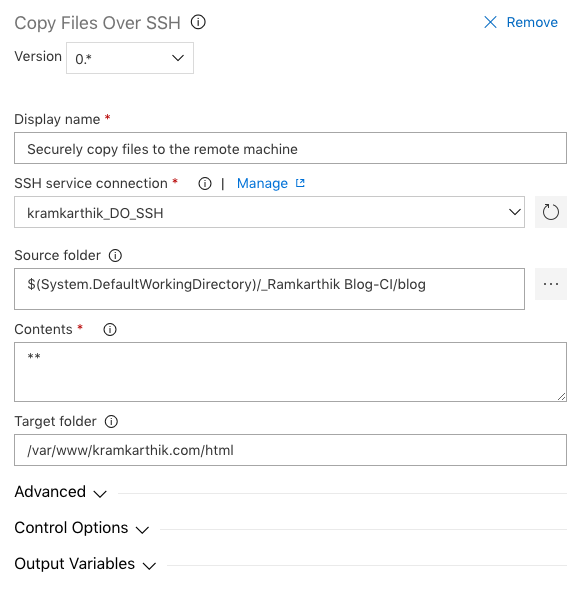
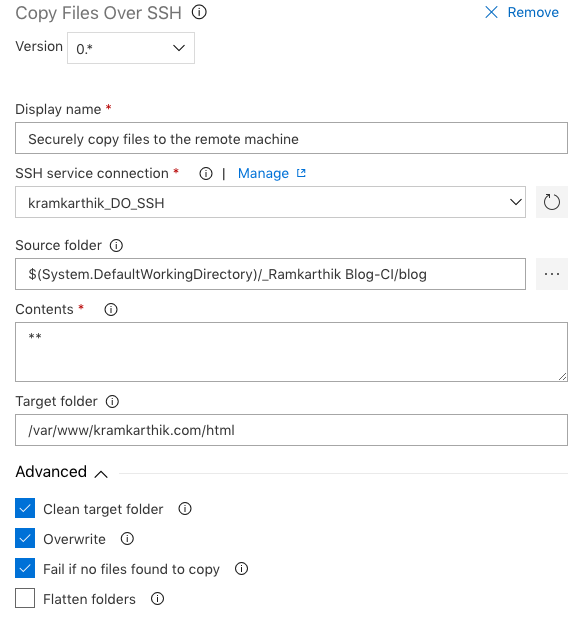
Changes to theme and modifying the new post.

diff --git a/themes/basics/layouts/partials/mailchimp.html b/themes/basics/layouts/partials/mailchimp.html
@@ -1,0 +1,33 @@
+<!-- Begin MailChimp Signup Form -->
+<link href="//cdn-images.mailchimp.com/embedcode/classic-10_7.css" rel="stylesheet" type="text/css">
+<style type="text/css">
+	#mc_embed_signup{background:#fff; clear:left; font:14px Helvetica,Arial,sans-serif; }
+	/* Add your own MailChimp form style overrides in your site stylesheet or in this style block.
+	   We recommend moving this block and the preceding CSS link to the HEAD of your HTML file. */
+</style>
+<div id="mc_embed_signup">
+<form style="height:75%; width:75%;" action="https://kramkarthik.us15.list-manage.com/subscribe/post?u=56153b949f65fffab56b49b61&amp;id=db547c3aaf" method="post" id="mc-embedded-subscribe-form" name="mc-embedded-subscribe-form" class="validate" target="_blank" novalidate>
+    <div id="mc_embed_signup_scroll">
+	<h4>If you liked this article, please subscribe to the blog</h4>
+<div class="indicates-required"><span class="asterisk">*</span> indicates required</div>
+<div class="mc-field-group">
+	<label for="mce-EMAIL">Email Address  <span class="asterisk">*</span>
+</label>
+	<input type="email" value="" name="EMAIL" class="required email" id="mce-EMAIL">
+</div>
+<div class="mc-field-group">
+	<label for="mce-FNAME">First Name  <span class="asterisk">*</span>
+</label>
+	<input type="text" value="" name="FNAME" class="required" id="mce-FNAME">
+</div>
+	<div id="mce-responses" class="clear">
+		<div class="response" id="mce-error-response" style="display:none"></div>
+		<div class="response" id="mce-success-response" style="display:none"></div>
+	</div>    <!-- real people should not fill this in and expect good things - do not remove this or risk form bot signups-->
+    <div style="position: absolute; left: -5000px;" aria-hidden="true"><input type="text" name="b_56153b949f65fffab56b49b61_db547c3aaf" tabindex="-1" value=""></div>
+    <div class="clear"><input type="submit" value="Subscribe" name="subscribe" id="mc-embedded-subscribe" class="button"></div>
+    </div>
+</form>
+</div>
+<script type='text/javascript' src='//s3.amazonaws.com/downloads.mailchimp.com/js/mc-validate.js'></script><script type='text/javascript'>(function($) {window.fnames = new Array(); window.ftypes = new Array();fnames[0]='EMAIL';ftypes[0]='email';fnames[1]='FNAME';ftypes[1]='text';fnames[2]='LNAME';ftypes[2]='text';fnames[3]='ADDRESS';ftypes[3]='address';fnames[4]='PHONE';ftypes[4]='phone';}(jQuery));var $mcj = jQuery.noConflict(true);</script>
+<!--End mc_embed_signup-->

diff --git a/themes/basics/layouts/partials/header.html b/themes/basics/layouts/partials/header.html
@@ -27,16 +27,19 @@
           <div class="collapse navbar-collapse" id="navbarNavAltMarkup">
             <div class="navbar-nav">
               <a class="nav-item nav-link {{ if eq .URL "/"}}active{{ end }}" href="/">Home</a>
+              <a class="nav-item nav-link {{ if eq .URL "/project/"}}active{{ end }}" href="/project/">Projects</a>
+              {{ with .Site.Params.twitter }}<a class="nav-item nav-link" href="https://twitter.com/{{ . }}" target="_blank">Twitter</a>{{ end }}
               {{ with .Site.Params.github }}<a class="nav-item nav-link" href="https://github.com/{{ . }}" target="_blank">GitHub</a>{{ end }}
+              {{ with .Site.Params.email }}<a class="nav-item nav-link" href="mailto:{{ . }}" target="_blank">Contact</a>{{ end }}
               {{ with .Site.Params.gitlab }}<a class="nav-item nav-link" href="https://gitlab.com/{{ . }}" target="_blank">GitLab</a>{{ end }}
-              <a class="nav-item nav-link {{ if eq .URL "/about/"}}active{{ end }}" href="/about/">About</a>
+              
             </div>
           </div>
         </nav>
 
         <section id="page-title">
           <h1><a href="/">{{ .Site.Title | default "Basics"}}</a></h1>
-          <span id="author-name">
+          <!-- <span id="author-name">
             <h6><a href="/about/">{{ .Site.Params.Author }}</a></h6>
-          </span>
+          </span> -->
         </section>

diff --git a/themes/basics/layouts/partials/footer.html b/themes/basics/layouts/partials/footer.html
@@ -11,5 +11,6 @@
     <script src="https://code.jquery.com/jquery-3.3.1.slim.min.js" integrity="sha384-q8i/X+965DzO0rT7abK41JStQIAqVgRVzpbzo5smXKp4YfRvH+8abtTE1Pi6jizo" crossorigin="anonymous"></script>
     <script src="https://cdnjs.cloudflare.com/ajax/libs/popper.js/1.14.3/umd/popper.min.js" integrity="sha384-ZMP7rVo3mIykV+2+9J3UJ46jBk0WLaUAdn689aCwoqbBJiSnjAK/l8WvCWPIPm49" crossorigin="anonymous"></script>
     <script src="https://stackpath.bootstrapcdn.com/bootstrap/4.1.1/js/bootstrap.min.js" integrity="sha384-smHYKdLADwkXOn1EmN1qk/HfnUcbVRZyYmZ4qpPea6sjB/pTJ0euyQp0Mk8ck+5T" crossorigin="anonymous"></script>
+    {{ partial "ga" .}}
   </body>
 </html>

diff --git a/themes/basics/layouts/_default/list.html b/themes/basics/layouts/_default/list.html
@@ -14,5 +14,19 @@
     </li>
     {{ end }}
   </ul>
+  <ul class="posts_listing">
+    {{ range where .Pages.ByDate.Reverse "Section" "project" }}
+    <li>
+      <div class="row" id="posts">
+        <div class="d-none d-sm-block col-sm-3 date-time-title">
+          <time>{{ .Date.Format "02 Jan 2006" }}</time>
+        </div>
+        <div class="col-sm date-time-title post">
+          <a href="{{ .URL }}">{{ .Title }}</a>
+        </div>
+      </div>
+    </li>
+    {{ end }}
+  </ul>
 </section>
 {{ end }}

diff --git a/themes/basics/layouts/partials/ga.html b/themes/basics/layouts/partials/ga.html
@@ -1,0 +1,9 @@
+<!-- Global site tag (gtag.js) - Google Analytics -->
+<script async src="https://www.googletagmanager.com/gtag/js?id=UA-92639711-1"></script>
+<script>
+  window.dataLayer = window.dataLayer || [];
+  function gtag(){dataLayer.push(arguments);}
+  gtag('js', new Date());
+
+  gtag('config', 'UA-92639711-1');
+</script>

diff --git a/themes/basics/layouts/_default/single.html b/themes/basics/layouts/_default/single.html
@@ -7,5 +7,6 @@
   <div class="blog-post-content">
     {{ .Content }}
   </div>
+  {{ partial "mailchimp" .}}
 </div>
 {{ end }}

diff --git a/content/post/deploy-static-blog-azure-pipelines.md b/content/post/deploy-static-blog-azure-pipelines.md
@@ -28,7 +28,7 @@ Now with Azure Pipelines, you can automate pretty much any deployment process.
 <span>Note: This tutorial assumes that you have your static Hugo website code hosted in a Git repository.</span>
 <p></p>
 <ol>
-	<p><li>Go to [https://dev.azure.com](https://dev.azure.com) and click on 'Create project'.</li></p>
+	<p><li>Go to <a href="https://dev.azure.com" target="_blank">https://dev.azure.com</a> and click on 'Create project'.</li></p>
 	<img style="height:85%;width:85%" src="/images/deploy_azure_pipelines/create_azure_project.png" />
 	<p><li>Click on 'Pipelines' and then in the next screen, click on 'New pipeline'. You will also have a 'Pipelines' option on the left menu.</li></p>
 	<img style="height:85%;width:85%" src="/images/deploy_azure_pipelines/new_azure_project_landing.png" />
@@ -38,9 +38,9 @@ Now with Azure Pipelines, you can automate pretty much any deployment process.
 	<img style="height:85%;width:85%" src="/images/deploy_azure_pipelines/github_oauth.png" />
 	<p><li>Choose your website repository and the branch. I want only commits or merge into 'master' branch to create a build and deploy, so I have chosen 'master' as branch. Click on continue.</li></p>
 	<img style="height:85%;width:85%" src="/images/deploy_azure_pipelines/choose_repository.png" />
-	<p><li>In the next screen, you will asked to choose a template. Scroll all the way down to the end and you will find 'Empty Pipeline'. Let's choose that one.</li></p>
+	<p><li>In the next screen, you will be asked to choose a template. Scroll all the way down to the end and you will find 'Empty Pipeline'. Let's choose that one.</li></p>
 	<img style="height:85%;width:85%" src="/images/deploy_azure_pipelines/choose_empty_pipeline.png" />
-	<p><li>Now we are building a pipeline. You can click on the 'Agent Job 1' under pipeline and rename it. Once you rename it, click on the '+' sign.</li></p>
+	<p><li>Now we are building a pipeline. You can click on 'Agent Job 1' under pipeline and rename it. Once you rename it, click on the '+' sign.</li></p>
 	<img style="height:85%;width:85%" src="/images/deploy_azure_pipelines/build_pipeline.png" />
 	<p><li>You will see a new tab to add a task on the right side. Select 'Marketplace', search for 'Hugo' and click on 'Get it free'. This will install the plugin. Once it is done, click on 'Add'. It will add a new 'Hugo generate' task to your job agent. Click on it.</li></p>
 	<p><img style="height:85%;width:85%" src="/images/deploy_azure_pipelines/marketplace.png" /></p>
@@ -84,10 +84,10 @@ Now with Azure Pipelines, you can automate pretty much any deployment process.
 			<p>Click on OK.</p>
 		</ul></li></p>
 	<p><img style="height:85%;width:85%" src="/images/deploy_azure_pipelines/add_ssh_connection.png" /></p>
-	<p><li>Now in the previous tab, you can choose this SSH connection from the dropdown. Enter 'Target folder' value as the folder path to which you deploy static files in the remote machine. In my case, it is '/var/www/kramkarthik.com/html'.</li></p>
+	<p><li>Now in the previous tab, you can choose this SSH connection from the dropdown. Enter 'Target folder' value as the folder path to which you deploy static files in the remote machine. In my case, it is '/var/www/kramkarthik.com/html'. Click 'Advanced' and enable the checkbox that you need. I usually want to clean the directory and deploy completely. Also, I want the pipeline to fail if there is no file to copy.</li></p>
 	<p><img style="height:85%;width:85%" src="/images/deploy_azure_pipelines/complete_ssh_configuration.png" /></p>
 	<p><li>Change your release pipeline name to something meaningful.</li></p>
-	<p><li>We have a build pipeline. We also have a release pipeline. Now we need to configure what triggers a build and what triggers a deployment.</li></p>
+	<p><li>We have a build pipeline. We also have a release pipeline. Now we need to configure what triggers a build and what triggers a release.</li></p>
 	<p><li>Go to your build pipeline and click on edit.</li></p>
 	<p><img style="height:85%;width:85%" src="/images/deploy_azure_pipelines/build_pipeline_edit.png" /></p>
 	<p><li>Click on 'Triggers'. Choose your repository under 'Continuous Integration' and on the right side menu, choose 'Enable continuous integration'. Click on Save. Now any commit or merge to 'master' branch will trigger a build.</li></p>
